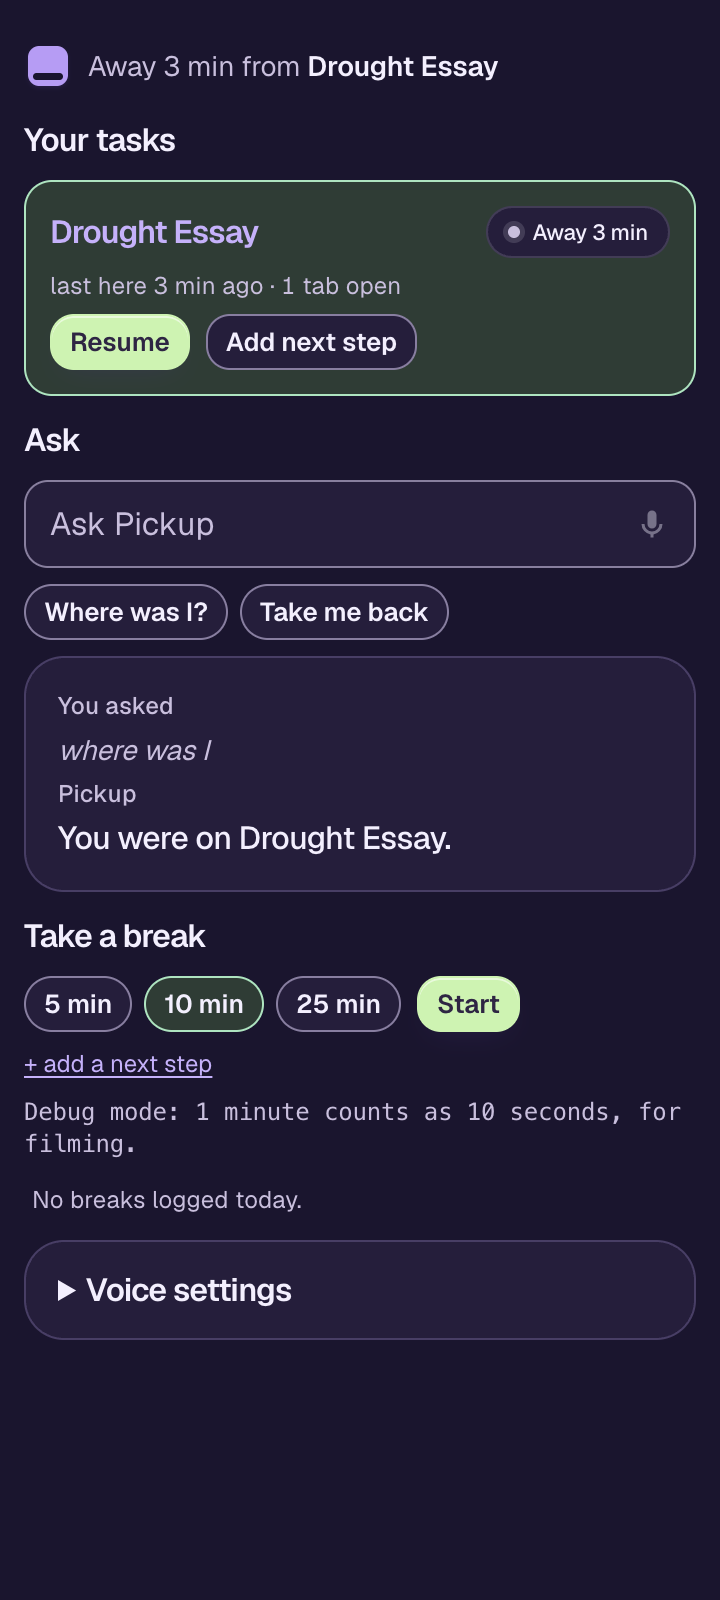
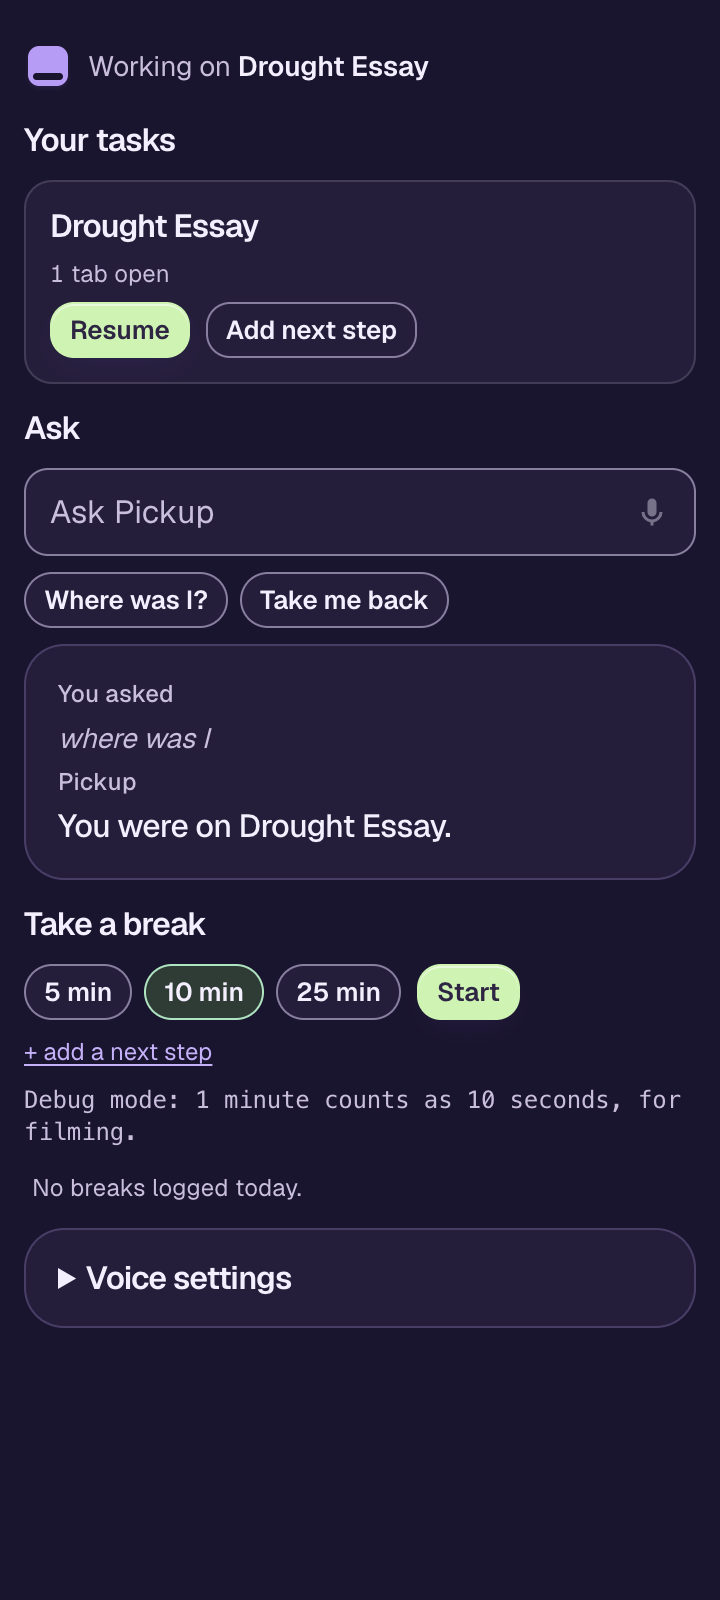
test: run 21 (v1.0.1): gate 23/0, release smoke 14/0, voice 7/0 with first sound ~1.4 s; key labels compared in words

diff --git a/test/REAL_CHROME_LOG.md b/test/REAL_CHROME_LOG.md
@@ -225,3 +225,13 @@ Branch `release/v1.0` at `b3e0dfc` (per-platform shortcuts, `getShortcuts`, labe
 - **What is not literally a judge's clicks:** step 4 loads the folder with `--load-extension` (what Load unpacked does; CDP can't drive the native folder picker), and the work and distraction sites are local stand-ins (`essay.test`, `video.test`) added to the unzipped copy's `host_permissions`, because CDP can't click Chrome's site-access prompt. The extension code is the downloaded zip, unchanged otherwise.
 - Live site, separately (E4): page, JS, CSS, lazy 3D chunk, fonts and laptop poster all 200 with the right types; at 1440 and 375, with and without reduced motion: 0 console errors, 3D laptop at 1440 and the poster fallback at 375, all 20 in-page anchors resolve, no horizontal scroll, Download goes to the release zip.
 - Screenshots: `docs/v4/after/judge-path-1-site.png` … `judge-path-9-extensions-shortcuts.png`, `live-1440.png`, `live-375.png`.
+
+## Run 21: ux/declutter, v1.0.1 (Sat Nov 21, ~1:50 PM ET)
+
+Branch `ux/declutter` at `9da300d` (setup in three steps, side panel reordered, word keycaps, Pickup's own voice, COOP/COEP + CSP `'wasm-unsafe-eval'`, `tts` permission removed). Chrome for Testing 157.0.8103.78 on macOS (Apple M5 Pro, 18 cores), visible runs, isolated profiles.
+- **Gate (`real-chrome-gate.mjs`): 23 pass, 0 fail, 1 skipped** (Docs row: needs a Google login). Stub content scripts, as in runs 17–19.
+- **Release smoke on `pickup-v1.0.1.zip` (real setup Save click, Sidd's real content scripts): 14 ok, 0 fail.** Card shows task and next step; Enter restores scroll 0 → 106 (saved 161); popup and setup show keys in words ("Control Shift P"); 0 console errors. One earlier attempt failed at the Save click with an empty status and did not reproduce on two reruns (diagnostics added to that step).
+- **Panel check (`panel-check.mjs`): 6 pass.** One earlier run failed P0 because a break opened with signal `idle` (the machine's idle state while nobody touched it); the rerun passed P0.
+- **Pickup's voice (`voice-out-check.mjs`): 7 pass, 0 fail.** Talking back is off by default; turning it on loads and warms the bundled model in about 1.7 s; Hear a sample plays both sentences through a running AudioContext; **"Where was I?" with a parked task: first sound 1385 / 1390 / 1404 ms** from the ask (threaded WASM, cross-origin isolated); Esc stops it; **zero network requests left the extension** (CDP Network domain: only chrome-extension:, data:, blob:); a forced load failure turns talking back off, shows "Pickup's voice needs a newer computer. Replies are shown as text." and typing still answers.
+- **Measured, not guessed:** int8 model on **WebGPU** stalled (the 2-sentence sample's second sentence took over 60 s; "Where was I?" gave no sound in 60 s), single-thread **WASM** gave 2.78 s, **threaded WASM** 1.39 s. So the panel uses threaded WASM.
+- **Anish's Mac:** listening check still to do (time to first sound there not measured yet).
